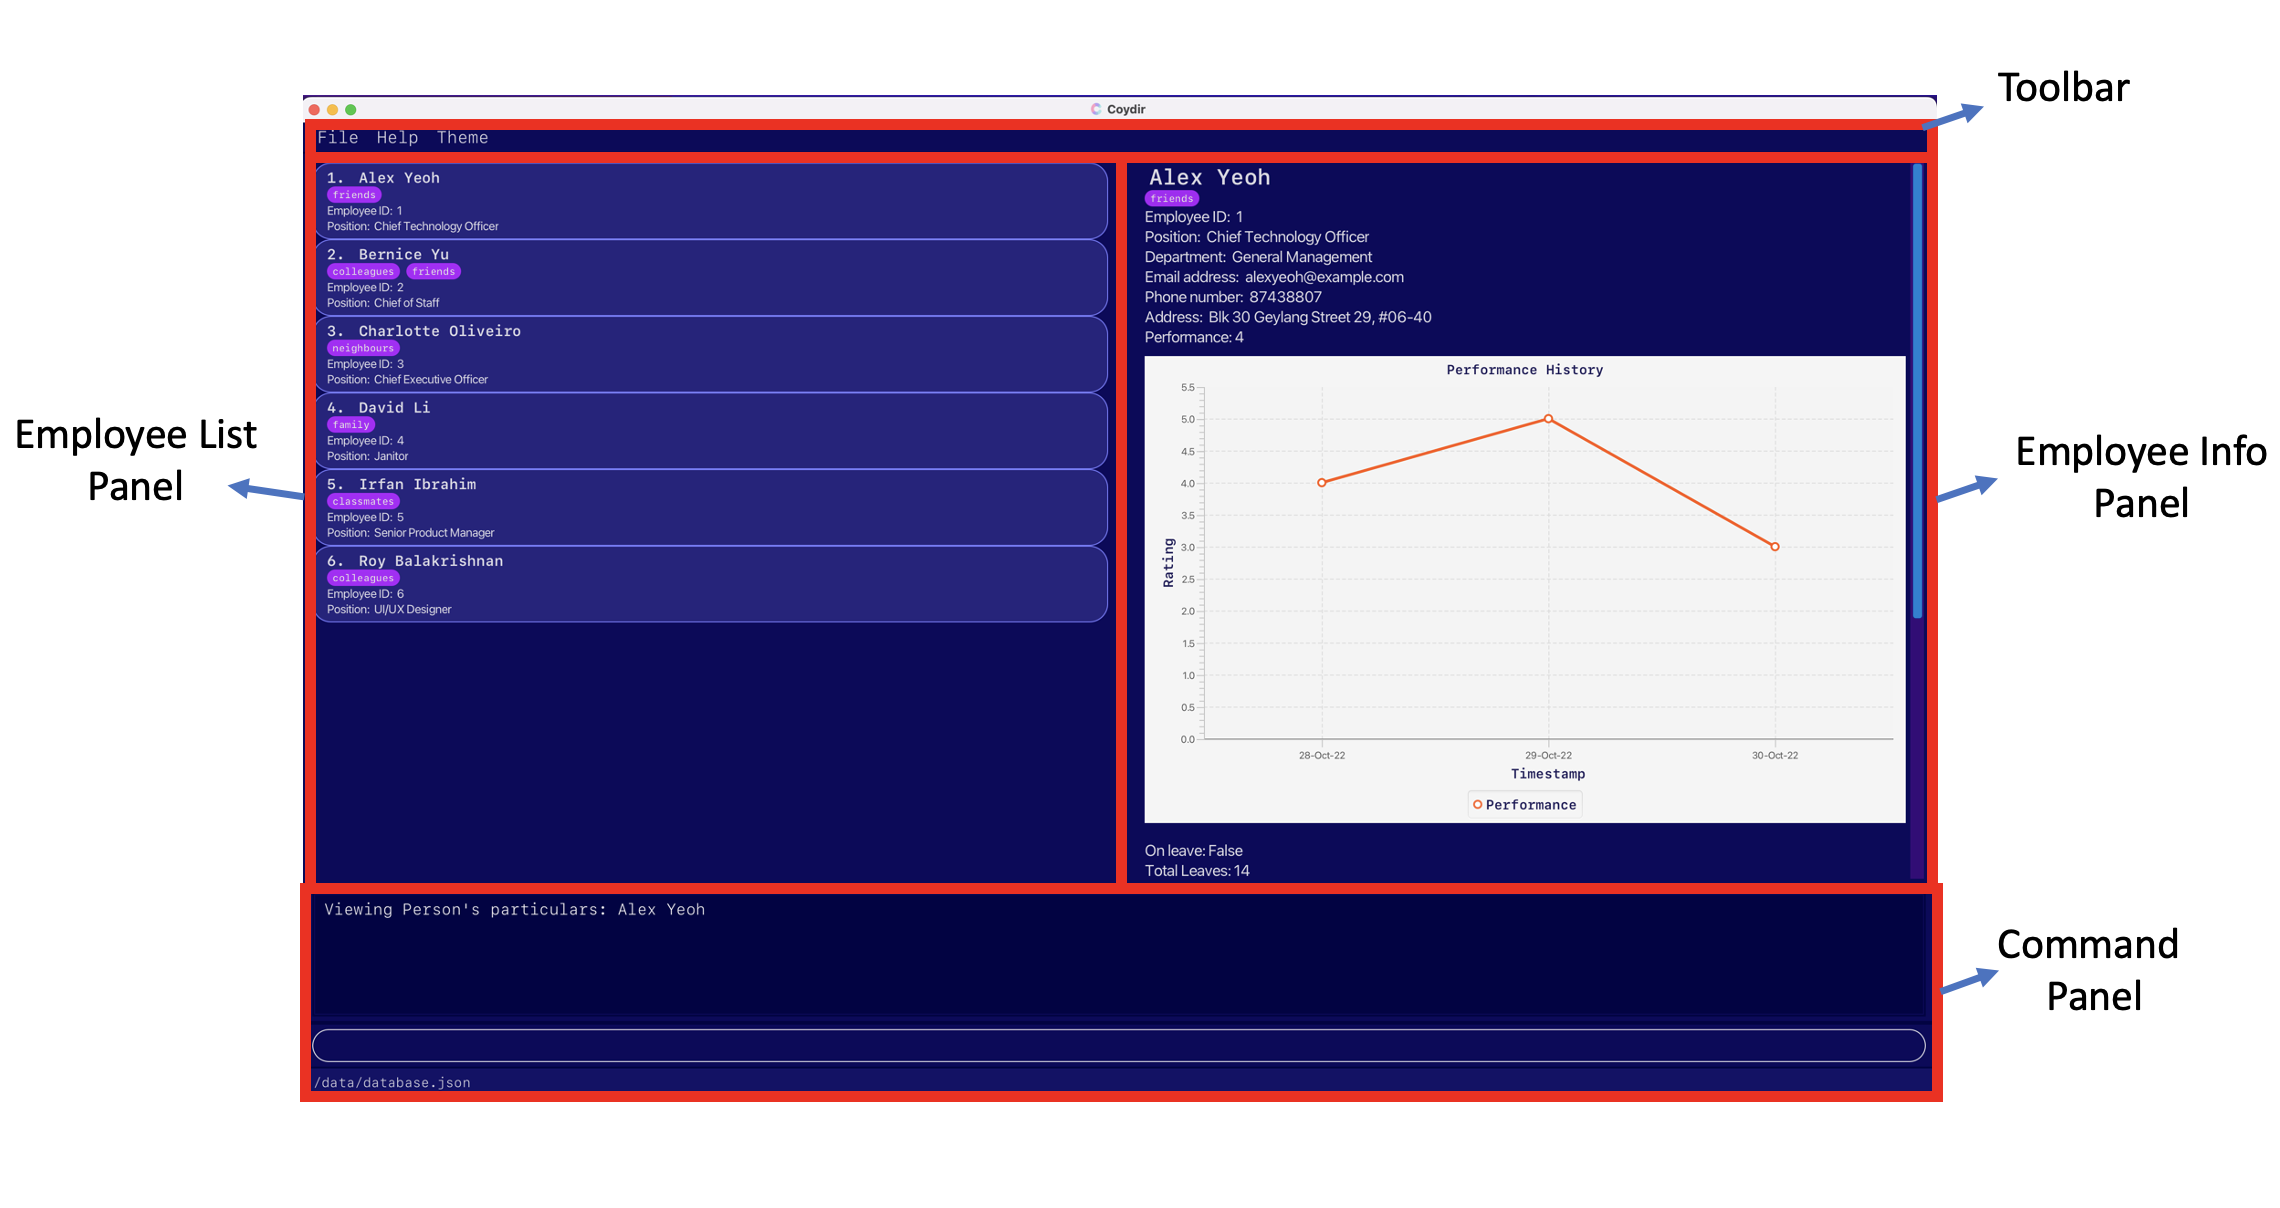
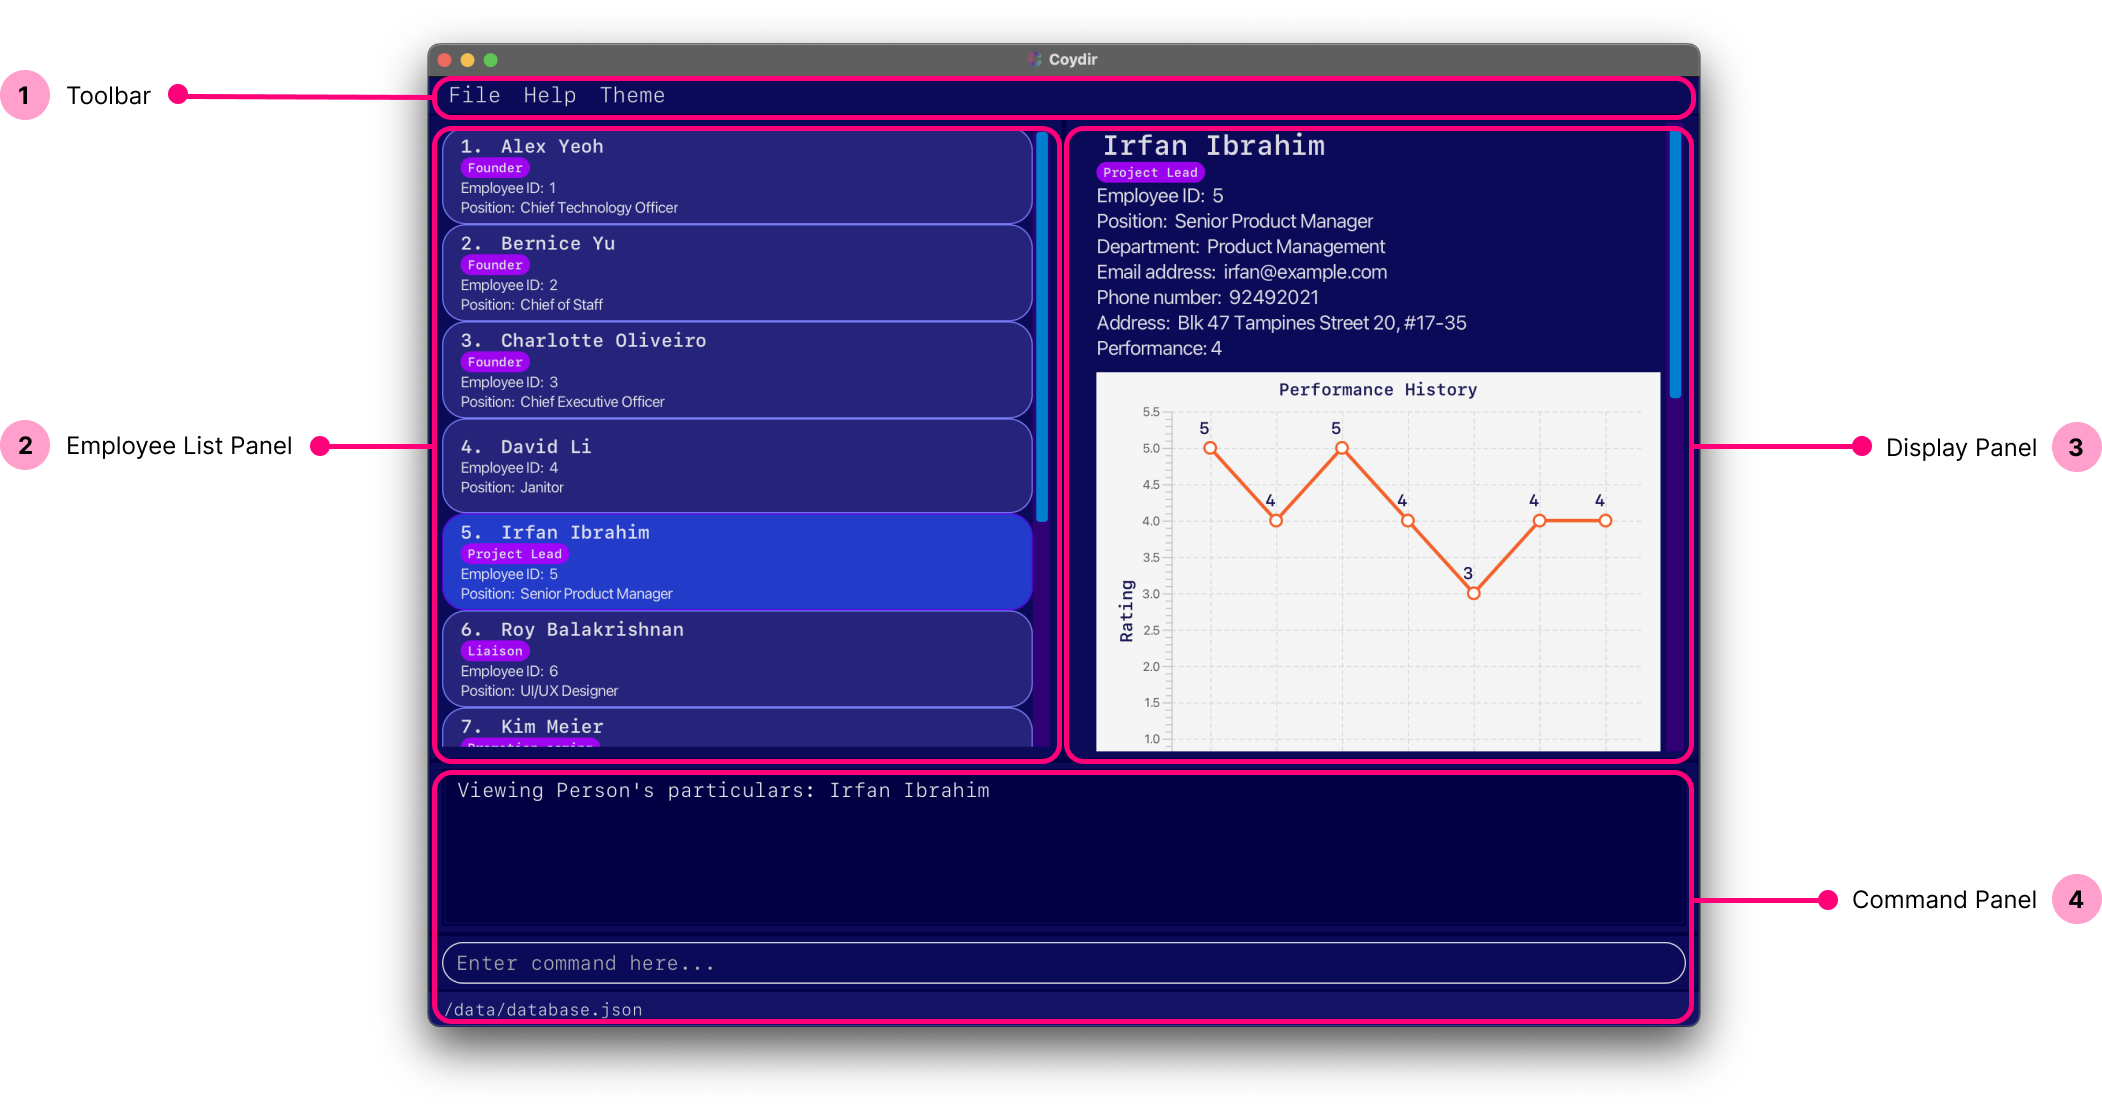
Update UG

diff --git a/docs/_sass/minima/custom-styles.scss b/docs/_sass/minima/custom-styles.scss
@@ -1,11 +1,17 @@
 // Placeholder to allow defining custom styles that override everything else.
 // (Use `_sass/minima/custom-variables.scss` to override variable defaults)
-h2,
-h3,
 h4,
 h5,
 h6 {
-  color: #6d3ae4;
+  color: #FF0078;
+  font-weight: bold;
+}
+
+h1, h2, h3 {
+  color: #FF0078;
+  font-weight: 900;
+  padding: 4px 8px;
+  margin-bottom: 18px;
 }
 
 // Bootstrap style alerts
@@ -14,7 +20,7 @@ h6 {
   padding: $alert-padding-y $alert-padding-x;
   margin-bottom: $alert-margin-bottom;
   border: $alert-border-width solid transparent;
-  order-radius: $alert-border-radius;
+  border-radius: $alert-border-radius;
 }
 
 // Headings for larger alerts

diff --git a/docs/_sass/minima/initialize.scss b/docs/_sass/minima/initialize.scss
@@ -5,7 +5,7 @@
 $base-font-family: -apple-system, BlinkMacSystemFont, "Segoe UI", "Segoe UI Symbol", "Segoe UI Emoji", "Apple Color Emoji", Roboto, Helvetica, Arial, sans-serif !default;
 $code-font-family: "Menlo", "Inconsolata", "Consolas", "Roboto Mono", "Ubuntu Mono", "Liberation Mono", "Courier New", monospace;
 $base-font-size:   16px !default;
-$base-font-weight: 500 !default;
+$base-font-weight: 400 !default;
 $small-font-size:  $base-font-size * 0.875 !default;
 $base-line-height: 1.5 !default;
 

diff --git a/docs/UserGuide.md b/docs/UserGuide.md
@@ -4,8 +4,8 @@ title: User Guide
 ---
 
 <p align="center">
-  <img src="./images/Coydir_Logo.png" />
-  <h1 align="center"><font size="7">Coydir</font><br><em>The Ultimate Company Directory</em></h1>
+  <img src="./images/Coydir_Logo.png" width=400rem />
+  <h1 align="center"><font size="7">Coydir</font><br><em><font size="5">The Ultimate Company Directory</font></em></h1>
 </p>
 
 ## **Coydir /(‘kohy-də)/**
@@ -57,61 +57,56 @@ title: User Guide
 
 ## Introduction
 
-Welcome HR executives and Department Heads! Coydir is a desktop app to efficiently track key employee details within your company, optimized for use via a Command Line Interface (CLI). Coydir would not only allow you to quickly access the list of all employees and their details but also make necessary updates such as leaves and performance rating information.
+Welcome HR executives and Department Heads! **Coydir** is a desktop app to efficiently track key employee details within your company, optimized for use via a Command Line Interface (CLI). **Coydir** would not only allow you to quickly access the list of all employees and their details but also make necessary updates such as leaves and performance rating information.
+
+Made for HR executives and Department Heads, Coydir is 
 
 ## Using this Guide
 
-### Symbols and Syntax
+Are you a HR executive or a Department Head seeking a solution to efficiently track employee information and observe key statistics of your company? **Coydir** is here to elegantly solve your problems. This user guide will teach you everything you need to know about the **Coydir** product, and start using our features today!
 
-Here are some symbols to look out for while using this guide:
+This guide walks you through the comprehensive features of **Coydir**. Do feel free to refer to this whenever you need help. 
 
-| Symbol               | Meaning                                      |
-| -------------------- | -------------------------------------------- |
-| `code`               | Text relevant to commands or name of a file. |
-| :information source: | Information that is useful to take note of.  |
-| :bulb:               | Tips for Coydir Users.                       |
-| :exclamation:        | Be wary and proceed with caution.            |
+Is this your first time using **Coydir**? Check out our [Introduction](#introduction) to learn what **Coydir** is about! Refer to our [Table of Contents](#table-of-contents) to easily navigate between the different sections of our User Guide. If you can't wait to get started on this amazing product, head over to [Quick Start](#quick-start) to install and start using **Coydir**.
 
-### Navigating the User Guide
+All done setting up Coydir? Head over to our [Features](#features) section to learn how to use the features we offer. To summarize, Coydir helps you...
 
-This document might look daunting at first! But fear not, in this section, you will learn how to use
-this user guide like a professional.
+1. [**Manage Employee Profiles**](#managing-employee-profiles)
 
-#### Interested in how to setup?
+2. [**Manage Employee Leaves**](#managing-employee-leaves)
 
-You can head over to [Quick Start](#quick-start) to install and run Coydir.
+3. [**Manage Employee Performance**](#managing-employee-performance)
 
-#### Interested in what Coydir can do?
+4. [**Manage Departments**](#managing-departments)
 
-You can head over to [Features](#features) to learn how to use the features
-offered in Coydir.
+Still have doubts about our product? Head over to [FAQ](#faq) to view some frequently asked questions and answers. If your question is not answered in the _FAQ_, you can always contact us at _coydir@gmail.com_, and we will be happy to answer you.
 
-#### Have some questions that you are unsure of?
+Just want a quick overview of all the features Coydir can offer? You can head over to [Command Summary](#command-summary) for a quick look of all the commands you can use.
 
-You can head over to [FAQ](#faq) to view some frequently asked questions to get your answer.
-However, if your question is not answered in the _FAQ_, you can always contact us at _coydir@gmail.com_, and
-we will be happy to answer you.
-
-#### Just want a quick overview of all the features Coydir can offer?
-
-You can head over to [Command Summary](#command-summary) for a quick look of all the commands you can use.
-
-### The User Interface
+## The User Interface
 
 Below is an image of Coydir User Interface with the main components labelled.
 
 ![Labelled GUI](images/ui-screenshots/Labelled-GUI.png)
 
-#### Toolbar
+| No. | Component             | Description                                                                                                                    |
+|-----|-----------------------|--------------------------------------------------------------------------------------------------------------------------------|
+| 1   | Toolbar               | Includes information on frequently-used commands. Switch to light/dark mode.                                                                        |
+| 2   | Employee List Panel    | Displays the list of employees. Includes basic information such as `tags`, `position`, `employee ID`.      |
+| 3   | Display Panel          | Displays the information of an employee or department. The information includes the employee's personal details, leave information, performance information.     | 
+| 4   | Command Panel            | Displays the system message after the execution of a command. The system message describes the outcome of the entered command. |
 
-![Toolbar](images/ui-screenshots/Toolbar.png)
+### Toolbar
+
+<img src="images/ui-screenshots/Toolbar.png" height=40 class="centerImage">
+
 This Toolbar can be used to :
 
 1. Exit the application through the **File** button
 2. Access the Help guide through the **Help** button
 3. Change from Dark mode to Light Mode or vice versa through the **Theme** button
 
-#### Employee List Panel
+### Employee List Panel
 
 ![Employee List Panel](images/ui-screenshots/Employee-List-Panel.png)
 This shows the whole employee list with basic information such as _Name_, _Employee ID_ and _Position_.
@@ -121,7 +116,7 @@ This will come in handy if:
 1. You want a general overview of the employees in the company as of this moment.
 2. You want to quickly find out their Employee ID to view more details.
 
-#### Employee Info Panel
+### Employee Info Panel
 
 ![Employee Info Panel](images/ui-screenshots/Employee-Info-Panel.png)
 This shows a specific employee's particulars.
@@ -133,7 +128,7 @@ Things to note:
 3. If you delete an employee that you are currently viewing, the employee info view will display the next employee's particulars.
 4. If there is no next employee, this panel will revert to the Coydir logo.
 
-#### Command Box
+### Command Box
 
 ![Command Box](images/ui-screenshots/Command.png)
 
@@ -170,6 +165,18 @@ The top section displays relevant messages/errors after the command is entered.
    - **`exit`** : Exits the app.
 
 6. Refer to the [Features](#features) below for details of each command.
+
+
+## Symbols and Syntax
+
+Here are some symbols to look out for while using this guide:
+
+| Symbol               | Meaning                                      |
+| -------------------- | -------------------------------------------- |
+| `code`               | Text relevant to commands or name of a file. |
+| :information source: | Information that is useful to take note of.  |
+| :bulb:               | Tips for Coydir Users.                       |
+| :warning:        | Be wary and proceed with caution.            |
 
 ## Features
 
